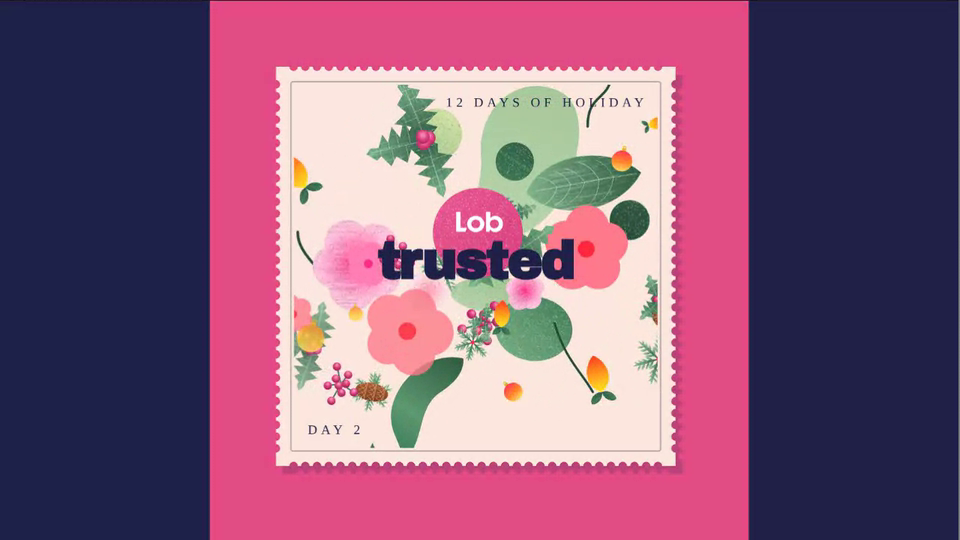
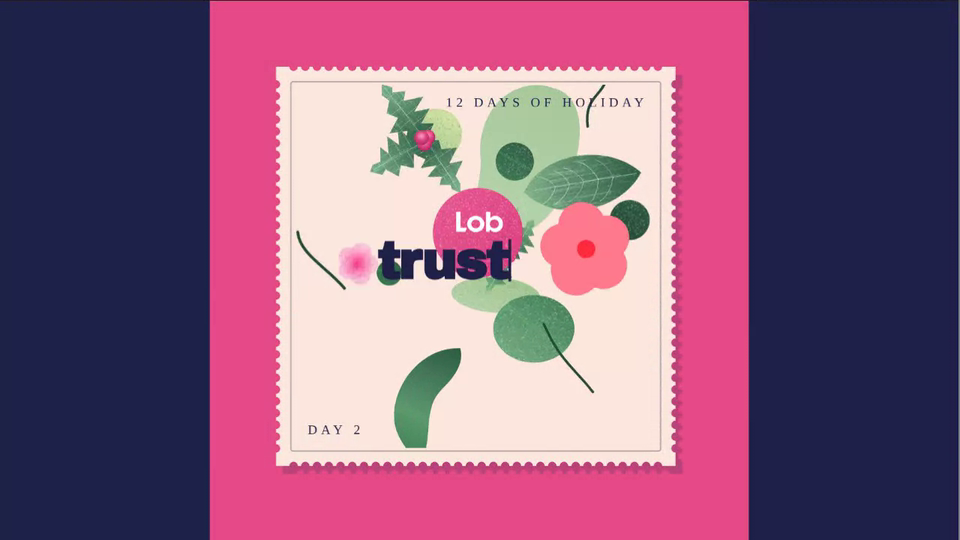
Lob 12 Days: a bigger floral fills the emptiest spot near the title
Claude-Session: https://claude.ai/code/session_01AHeBe1QDPu7caGBAPpCDLn

diff --git a/lob-12-days/index.html b/lob-12-days/index.html
@@ -179,6 +179,16 @@ function items(){const H=hero[day],pl=pals[day],mx=day===11,hf=(k)=>mx?[poin,hol
   ]}
 /* every day gets its own composition: bouquet rotated and sometimes mirrored, the big florals swapped between spots, and every piece nudged, resized and turned differently */
 const MIRROR=[0,1,0,0,1,1,0,1,0,1,0,1],GROUPS=[[13,14,15,16,17],[20,21,22]];
+/* a bigger floral fills the emptiest spot near the title, so no day is left with a hole */
+const RADG={0:250,1:150,2:70,3:150,4:60,5:70,6:34,7:170,8:140,9:200,10:90,11:100,12:90,13:162,14:230,15:230,16:134,17:67,18:100,19:90,20:55,21:144,22:210,23:62,24:100,25:90,26:60,27:52,28:38,29:42,30:36,31:28,32:95,33:85,34:70,35:88,36:75,37:84,38:80,39:84,40:90,41:120,42:90};
+function gap(res,close,hw){const pick=[13,16,34,36,17].find(k=>!close[k]);if(pick===undefined)return;
+  let best=-1e9,bx=750,by=556;
+  for(let gx=230;gx<=1290;gx+=40)for(let gy=300;gy<=860;gy+=40){
+    if(Math.abs(gx-750)<hw*.6&&Math.abs(gy-556)<60)continue; /* not behind the middle of the word */
+    let m=1e9;for(let k=0;k<res.length;k++){if(k===pick)continue;const q=res[k],d=Math.hypot(gx-q.px,gy-q.py)-(RADG[k]||80)*q.sc*.75;if(d<m)m=d}
+    const sc=m-Math.abs(gy-556)*.08; /* prefer spots close to the title */
+    if(sc>best){best=sc;bx=gx;by=gy}}
+  res[pick]={px:bx,py:by,rot:(rn(day*3.7)-.5)*1.2,sc:1.35,fl:1}}
 function place(its){const d=day,sd=d*17.3,P=its.map(it=>[it[1],it[2]]);
   GROUPS.forEach(g=>{const sh=(d*2+1)%g.length;g.forEach((k,n)=>{P[k]=[its[g[(n+sh)%g.length]][1],its[g[(n+sh)%g.length]][2]]})});
   const ga=(rn(d*4.7+1)-.5)*.7,ca=Math.cos(ga),sa=Math.sin(ga),gs=.94+rn(d*2.3)*.14,m=MIRROR[d];
@@ -186,13 +196,14 @@ function place(its){const d=day,sd=d*17.3,P=its.map(it=>[it[1],it[2]]);
   const hw=titles[d].length*52+25,CL=[13,14,15,16,17,34,36],AN=[[-.55,-125],[.55,-125],[-.4,135],[.45,135],[-1.02,10],[1.02,0]],nC=3+d%3,close={};
   {const sh=(a,s0)=>{const r=a.slice();for(let i=r.length-1;i>0;i--){const j=Math.floor(rn(s0+i*1.7)*(i+1));[r[i],r[j]]=[r[j],r[i]]}return r},fl=sh(CL,sd+5),an=sh(AN,sd+9);
    for(let n=0;n<nC;n++)close[fl[n]]={px:750+an[n][0]*hw+(rn(sd+n*3)-.5)*60,py:556+an[n][1]+(rn(sd+n*5)-.5)*50,rot:(rn(sd+n*7)-.5)*1.2,sc:.85+rn(sd+n*9)*.3,fl:1}}
-  return its.map((it,i)=>{if(close[i])return close[i];if(i===3)return{px:it[1],py:it[2],rot:it[3],sc:1,fl:1,st:1};
+  const res=its.map((it,i)=>{if(close[i])return close[i];if(i===3)return{px:it[1],py:it[2],rot:it[3],sc:1,fl:1,st:1};
     let px=P[i][0],py=P[i][1],rot=it[3],sc=1;
     if(i!==3){px+=(rn(sd+i*3.1)-.5)*190;py+=(rn(sd+i*5.3)-.5)*170;sc=.82+rn(sd+i*7.7)*.4;rot+=(rn(sd+i*2.9)-.5)*1.3}
     const ox=px-750,oy=py-590;px=750+(ox*ca-oy*sa)*gs;py=590+(ox*sa+oy*ca)*gs;rot+=ga;
     if(m){px=1500-px;if(i!==3)rot=-rot}
     px=cl(750+(px-750)*1.1,140,1360);py=cl(560+(py-560)*1.18,120,1010);if(it[6])py=Math.max(py,750); /* front pieces stay below the title */
-    return{px,py,rot,sc,fl:m&&i!==3?-1:1}})}
+    return{px,py,rot,sc,fl:m&&i!==3?-1:1}});
+  gap(res,close,hw);return res}
 function sceneDraw(front,gm){const its=items(),ex=gm,PL=place(its);
   const one=i=>{const it=its[i];if(!!it[6]!==front)return;const pp=i===3?1:Math.max(.0001,eob(cl((lt-.1-it[4]*1.6)/.6))*ex),q=PL[i];
     x.save();x.translate(q.px,q.py);x.rotate(q.st?q.rot:q.rot+it[5]*Math.sin(T*1.3+i)*1.0+(1-cl((lt-.1-it[4]*1.6)/.6))*-.5);const br=q.st?1:1+.018*Math.sin(T*2+i*1.7);x.scale(pp*br*q.sc*q.fl,pp*br*q.sc);
